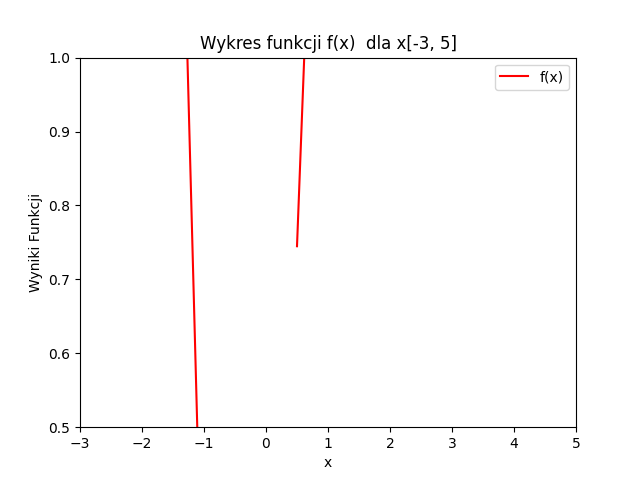
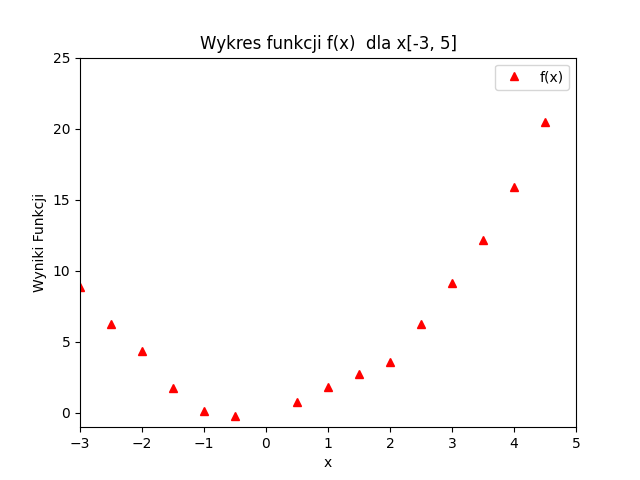
1

diff --git a/kolokwium/poprawakol.py b/kolokwium/poprawakol.py
@@ -25,12 +25,12 @@ import seaborn as sns
 # x = np.arange(-3, 5, 0.5)
 # y = pow(x, 2) + (np.sin(pow(x,2))/ x)
 #
-# plt.plot(x, y, label='f(x)', linestyle="-", color="red")
+# plt.plot(x, y, "r^", label="f(x)")
 #
 # plt.xlabel('x')
 # plt.ylabel('Wyniki Funkcji')
 #
-# plt.axis([-3, 5, 0.5, 1])
+# plt.axis([-3, 5, -1, 25])
 #
 # plt.legend()
 #
@@ -38,35 +38,35 @@ import seaborn as sns
 # plt.savefig("Dominika_Sielawa_zad2.png")
 # plt.show()
 # Zadanie3
+# #
+# df = pd.read_csv('handel.csv', header=0, sep=',', decimal='.')
+# wartosc = df.groupby('Wyszczegolnienie')['Wartosc'].sum()
 #
-# sns.set()
+# plt.pie(wartosc.index, wartosc.values)
+#
+# for i, value in enumerate(wartosc.values):
+#     plt.text(i, value, str(value), ha='center', va='bottom')
+#
+# plt.title('Wartosc wyszczegolnionych')
+# plt.xlabel('Wyszczegolnione')
+# plt.ylabel('Wartosc')
+# plt.legend()
+# # plt.savefig("Dominika_Sielawa_zad3.png")
+# # plt.show()
+#
+# # Zadanie4
 #
 # df = pd.read_csv('handel.csv', header=0, sep=',', decimal='.')
+# wartosc = df.groupby('Wyszczegolnienie')['Wartosc'].sum()
+# ax = plt.subplots()
+# plt.pie(wartosc.index)
 #
-# wartosc_stacji = df.groupby('Rok')['Wartosc']
-#
-# plt.bar(wartosc_stacji.rok, wartosci_stacji.wartosc)
-#
-# for i, value in enumerate(wartosc_stacji.values):
+# for i, value in enumerate(wartosc.values):
 #     plt.text(i, value, str(value), ha='center', va='bottom')
-# plt.xlabel('Wartosc stacji pawliw na przeciagu kilku lat')
-# plt.title("Wykres slupkowy z Handel.csv")
-# plt.savefig("Dominika_Sielawa_zad3.png")
+#
+# plt.title('Wartosc wyszczegolnionych')
+# plt.xlabel('Wyszczegolnione')
+# plt.ylabel('Wartosc')
+# plt.legend()
+# plt.savefig("Dominika_Sielawa_zad4.png")
 # plt.show()
-
-# Zadanie4
-
-df = pd.read_csv('handel.csv', header=0, sep=',', decimal='.')
-wartosc = df.groupby('Wyszczegolnienie')['Wartosc'].sum()
-
-plt.pie(wartosc.index, wartosc.values)
-
-for i, value in enumerate(wartosc.values):
-    plt.text(i, value, str(value), ha='center', va='bottom')
-
-plt.title('Wartosc wyszczegolnionych')
-plt.xlabel('Wyszczegolnione')
-plt.ylabel('Wartosc')
-plt.legend()
-plt.savefig("Dominika_Sielawa_zad4.png")
-plt.show()
